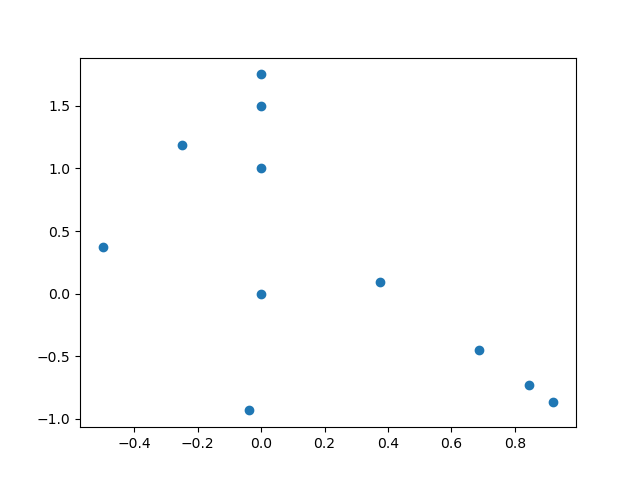
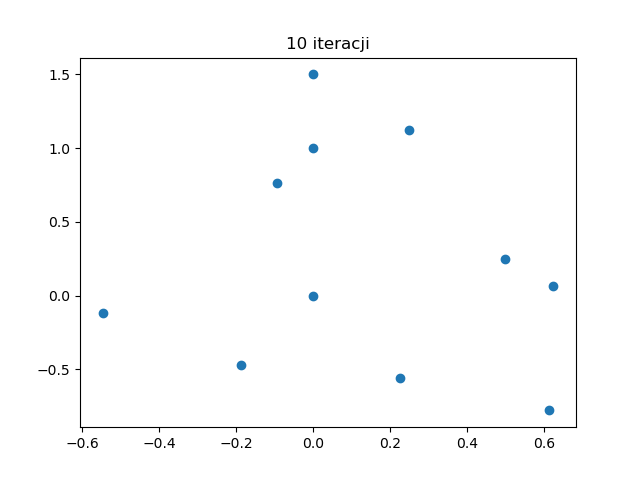
tytul wykresu

diff --git a/lab4-cheosGame.py b/lab4-cheosGame.py
@@ -1,6 +1,4 @@
-import itertools
 import matplotlib.pyplot as plt
-import matplotlib.animation as animation 
 import random
 
 def randomCorner(corners):
@@ -24,6 +22,7 @@ def chaosGame(config):
     x, y = zip(*points)
     
     plt.figure()
+    plt.title(f"{config['epochs']} iteracji")
     plt.scatter(x, y)
     plt.show()
 
